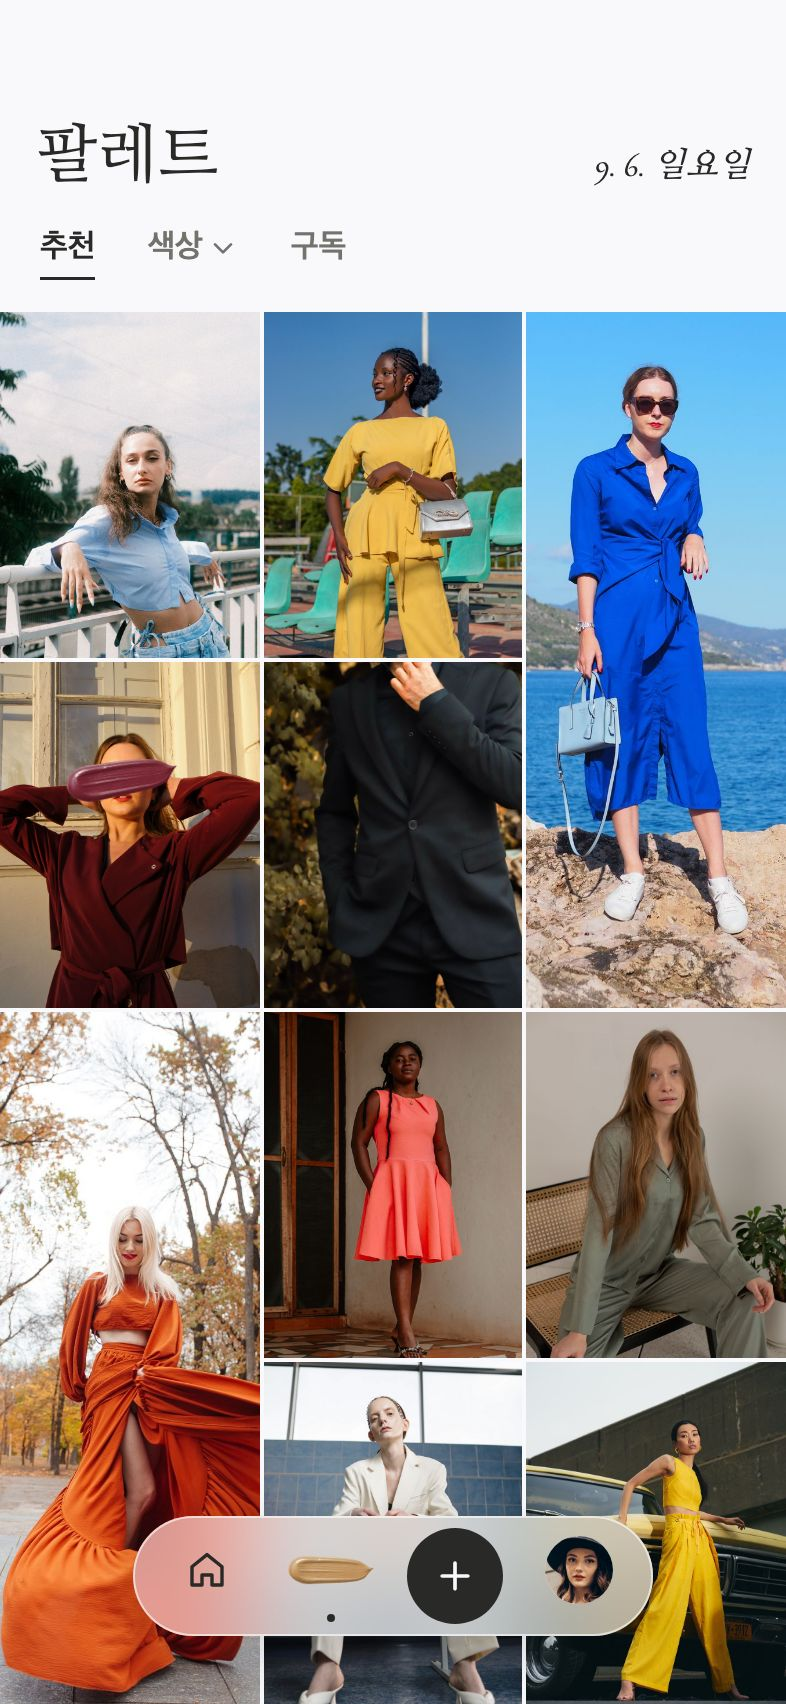
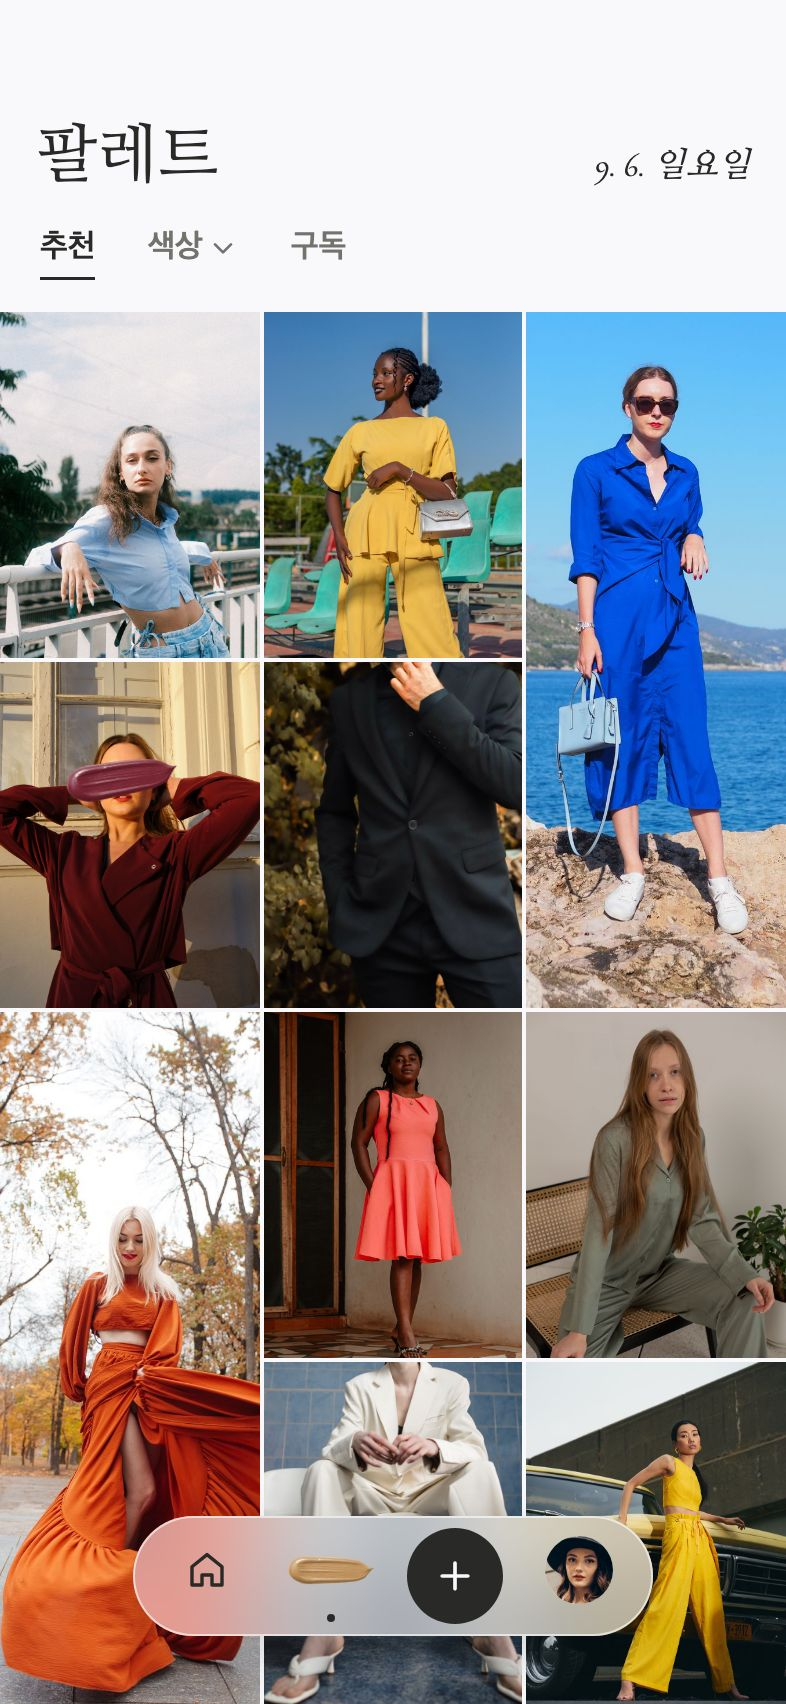
feat: 팔레트 추천을 스크롤로 더 보게 하고 홈의 전체·구독 탭을 뺌
추천 격자를 4묶음(20칸)으로 늘려 스크롤한다. 홈은 구독과 추천을
섞은 한 피드라 탭을 빼고, 구독만 보기는 팔레트의 구독 탭에 둔다.
'사인 뒤로'를 고른 사진은 작은 칸에서 사인이 얼굴을 가리지 못하므로
격자에서는 목 아래로 잘라 보여 준다(10-18 사용자 결정).

Changed region(s): [[0.3359, 0.7776, 0.6718, 1.0]]

diff --git a/.codex/temp/prototype/20261003-cover-sns/generator/project/CoverStand.dc.html b/.codex/temp/prototype/20261003-cover-sns/generator/project/CoverStand.dc.html
@@ -35,7 +35,8 @@ button:active,a:active{transform:scale(0.97)}
 <a href="CoverStandLocked.dc.html" style="height: 44px; padding: 0 4px; display: flex; flex-direction: column; align-items: center; justify-content: center; gap: 4px; font-size: 16px; font-weight: 600; color: #71736C"><span style="height: 22px; display: flex; align-items: center; gap: 2px">색상<svg width="16" height="16" viewBox="0 0 24 24" fill="none" stroke="currentColor" stroke-width="2" stroke-linecap="round" stroke-linejoin="round" aria-hidden="true"><path d="M6 10l6 6 6-6"></path></svg></span><span style="align-self: stretch; height: 1.5px; background: transparent"></span></a>
 <a href="CoverStand.dc.html" style="height: 44px; padding: 0 4px; display: flex; flex-direction: column; align-items: center; justify-content: center; gap: 4px; font-size: 16px; font-weight: 600; color: #71736C"><span style="height: 22px; display: flex; align-items: center; gap: 2px">구독</span><span style="align-self: stretch; height: 1.5px; background: transparent"></span></a>
 </nav>
-<section aria-label="추천" style="flex-shrink: 0; position: relative; height: 700px; margin-top: 8px">
+<div class="esel-scroll" style="flex: 1 1 0; min-height: 0; overflow-y: auto; overscroll-behavior: contain; scrollbar-width: none">
+<section aria-label="추천" style="position: relative; height: 1400px; margin-top: 8px">
 <a href="CoverShelf.dc.html" aria-label="dana의 스케치북" style="position: absolute; left: 0px; top: 0px; width: 130px; height: 173px; overflow: hidden; background: #EDEEEA"><span style="position: relative; display: block; width: 130px; height: 173px; overflow: hidden"><img src="/_blob/ccccff032247b980b249542cac99de46" alt="파우더 블루 셔츠와 데님 착장" style="display: block; width: 130px; height: 173px; object-fit: cover; object-position: 50% 30%"></span></a>
 <a href="CoverShelf.dc.html" aria-label="ama의 스케치북" style="position: absolute; left: 132px; top: 0px; width: 129px; height: 173px; overflow: hidden; background: #EDEEEA"><span style="position: relative; display: block; width: 129px; height: 173px; overflow: hidden"><img src="/_blob/a3b1f50ec885b82797b4dad1d6fb32f8" alt="노란 셋업과 은색 가방 착장" style="display: block; width: 129px; height: 173px; object-fit: cover; object-position: 50% 30%"></span></a>
 <a href="CoverShelf.dc.html" aria-label="riva의 스케치북" style="position: absolute; left: 263px; top: 0px; width: 130px; height: 348px; overflow: hidden; background: #EDEEEA"><span style="position: relative; display: block; width: 130px; height: 348px; overflow: hidden"><img src="/_blob/7bee9f1a7214e73bb5aa29dfce802597" alt="바닷가 바위 위 코발트 셔츠 원피스 착장" style="display: block; width: 130px; height: 348px; object-fit: cover; object-position: 52% 50%"></span></a>
@@ -44,9 +45,21 @@ button:active,a:active{transform:scale(0.97)}
 <a href="CoverShelf.dc.html" aria-label="vera의 스케치북" style="position: absolute; left: 0px; top: 350px; width: 130px; height: 348px; overflow: hidden; background: #EDEEEA"><span style="position: relative; display: block; width: 130px; height: 348px; overflow: hidden"><img src="/_blob/63ec474100e2afdff573023dfd73730c" alt="가을 공원의 주황 롱드레스 착장" style="display: block; width: 130px; height: 348px; object-fit: cover; object-position: 53% 50%"></span></a>
 <a href="CoverShelf.dc.html" aria-label="zuri의 스케치북" style="position: absolute; left: 132px; top: 350px; width: 129px; height: 173px; overflow: hidden; background: #EDEEEA"><span style="position: relative; display: block; width: 129px; height: 173px; overflow: hidden"><img src="/_blob/a3999eebd3499221f8ec78cf743f25b7" alt="코랄 원피스 착장" style="display: block; width: 129px; height: 173px; object-fit: cover; object-position: 50% 30%"></span></a>
 <a href="CoverShelf.dc.html" aria-label="elin의 스케치북" style="position: absolute; left: 263px; top: 350px; width: 130px; height: 173px; overflow: hidden; background: #EDEEEA"><span style="position: relative; display: block; width: 130px; height: 173px; overflow: hidden"><img src="/_blob/9cfabfeec4c23b2ece0dbf8f87ac8a11" alt="세이지색 셋업을 입고 라탄 의자에 앉은 착장" style="display: block; width: 130px; height: 173px; object-fit: cover; object-position: 50% 20%"></span></a>
-<a href="CoverShelf.dc.html" aria-label="freya의 스케치북" style="position: absolute; left: 132px; top: 525px; width: 129px; height: 173px; overflow: hidden; background: #EDEEEA"><span style="position: relative; display: block; width: 129px; height: 173px; overflow: hidden"><img src="/_blob/d59cedab1c3a96ed7cf32ca456e541f8" alt="파란 타일 스튜디오의 크림 수트 착장" style="display: block; width: 129px; height: 173px; object-fit: cover; object-position: 50% 30%"></span></a>
+<a href="CoverShelf.dc.html" aria-label="freya의 스케치북" style="position: absolute; left: 132px; top: 525px; width: 129px; height: 173px; overflow: hidden; background: #EDEEEA"><span style="position: relative; display: block; width: 129px; height: 173px; overflow: hidden; background: #EDEEEA"><img src="/_blob/d59cedab1c3a96ed7cf32ca456e541f8" alt="파란 타일 스튜디오의 크림 수트 착장, 얼굴 아래로 자른 구도" style="position: absolute; left: -9px; top: -62px; width: 158px; height: 237px; max-width: none"></span></a>
 <a href="CoverShelf.dc.html" aria-label="hana의 스케치북" style="position: absolute; left: 263px; top: 525px; width: 130px; height: 173px; overflow: hidden; background: #EDEEEA"><span style="position: relative; display: block; width: 130px; height: 173px; overflow: hidden"><img src="/_blob/16b1eeb8d5be0dba464bad2254d08550" alt="노란 와이드 셋업을 입고 노란 클래식카에 기댄 착장" style="display: block; width: 130px; height: 173px; object-fit: cover; object-position: 100% 35%"></span></a>
+<a href="CoverShelf.dc.html" aria-label="sol의 스케치북" style="position: absolute; left: 0px; top: 700px; width: 130px; height: 173px; overflow: hidden; background: #EDEEEA"><span style="position: relative; display: block; width: 130px; height: 173px; overflow: hidden"><img src="/_blob/200ffdfc3dc90562fa53863c048124d3" alt="하늘색 셋업을 입고 스튜디오 의자에 앉은 착장" style="display: block; width: 130px; height: 173px; object-fit: cover; object-position: 50% 35%"></span></a>
+<a href="CoverShelf.dc.html" aria-label="nia의 스케치북" style="position: absolute; left: 132px; top: 700px; width: 129px; height: 173px; overflow: hidden; background: #EDEEEA"><span style="position: relative; display: block; width: 129px; height: 173px; overflow: hidden"><img src="/_blob/be2062f0f8bb9e61196b7a918177e0f2" alt="테라코타 줄무늬 셔츠와 반바지 착장" style="display: block; width: 129px; height: 173px; object-fit: cover; object-position: 50% 40%"></span></a>
+<a href="CoverShelf.dc.html" aria-label="june의 스케치북" style="position: absolute; left: 263px; top: 700px; width: 130px; height: 348px; overflow: hidden; background: #EDEEEA"><span style="position: relative; display: block; width: 130px; height: 348px; overflow: hidden; background: #EDEEEA"><img src="/_blob/a083104662de6b00bdffc25d95935c8f" alt="검정 수트와 흰 셔츠 착장, 얼굴 아래로 자른 구도" style="position: absolute; left: -49px; top: -113px; width: 370px; height: 463px; max-width: none"></span></a>
+<a href="CoverShelf.dc.html" aria-label="cleo의 스케치북" style="position: absolute; left: 0px; top: 875px; width: 130px; height: 173px; overflow: hidden; background: #EDEEEA"><span style="position: relative; display: block; width: 130px; height: 173px; overflow: hidden"><img src="/_blob/0e9dfede87240970a60a9d4d7b348202" alt="버건디 수트와 데님 톱 착장" style="display: block; width: 130px; height: 173px; object-fit: cover; object-position: 50% 25%"></span></a>
+<a href="CoverShelf.dc.html" aria-label="maya의 스케치북" style="position: absolute; left: 132px; top: 875px; width: 129px; height: 173px; overflow: hidden; background: #EDEEEA"><span style="position: relative; display: block; width: 129px; height: 173px; overflow: hidden"><img src="/_blob/8ad47ab1dabd84a10ead2ddeb7eefb86" alt="흰 벽에 기댄 크림 셔츠와 바지 착장" style="display: block; width: 129px; height: 173px; object-fit: cover; object-position: 50% 35%"></span></a>
+<a href="CoverShelf.dc.html" aria-label="ines의 스케치북" style="position: absolute; left: 0px; top: 1050px; width: 130px; height: 348px; overflow: hidden; background: #EDEEEA"><span style="position: relative; display: block; width: 130px; height: 348px; overflow: hidden"><img src="/_blob/0d4a6ba247b79548b298ec9fb0b0778c" alt="하늘색 블라우스와 흰 바지 착장" style="display: block; width: 130px; height: 348px; object-fit: cover; object-position: 65% 20%"><img src="/_blob/2741e570bc827c25a1b735a55cfb4f8e" alt="" style="position: absolute; left: 16px; top: 34px; width: 98px; height: 49px; max-width: none; transform: rotate(-10deg); pointer-events: none"></span></a>
+<a href="CoverShelf.dc.html" aria-label="rio의 스케치북" style="position: absolute; left: 132px; top: 1050px; width: 129px; height: 173px; overflow: hidden; background: #EDEEEA"><span style="position: relative; display: block; width: 129px; height: 173px; overflow: hidden"><img src="/_blob/b5ff21cbb74e080d3cd23771fe4a7d6a" alt="분홍 벽 앞 코랄 슬립 원피스 착장" style="display: block; width: 129px; height: 173px; object-fit: cover; object-position: 50% 40%"></span></a>
+<a href="CoverShelf.dc.html" aria-label="mira의 스케치북" style="position: absolute; left: 263px; top: 1050px; width: 130px; height: 173px; overflow: hidden; background: #EDEEEA"><span style="position: relative; display: block; width: 130px; height: 173px; overflow: hidden"><img src="/_blob/8a310513242c00b53e6f091e65dc00df" alt="연두빛 세이지 투피스 드레스 착장" style="display: block; width: 130px; height: 173px; object-fit: cover; object-position: 0% 25%"></span></a>
+<a href="CoverShelf.dc.html" aria-label="ayo의 스케치북" style="position: absolute; left: 132px; top: 1225px; width: 129px; height: 173px; overflow: hidden; background: #EDEEEA"><span style="position: relative; display: block; width: 129px; height: 173px; overflow: hidden"><img src="/_blob/f58f119167a567a8a92482ac18be333a" alt="금단추 코발트 원피스 착장" style="display: block; width: 129px; height: 173px; object-fit: cover; object-position: 50% 30%"></span></a>
+<a href="CoverShelf.dc.html" aria-label="elin의 스케치북" style="position: absolute; left: 263px; top: 1225px; width: 130px; height: 173px; overflow: hidden; background: #EDEEEA"><span style="position: relative; display: block; width: 130px; height: 173px; overflow: hidden; background: #EDEEEA"><img src="/_blob/9cfabfeec4c23b2ece0dbf8f87ac8a11" alt="세이지색 셋업을 입고 라탄 의자에 앉은 착장, 얼굴 아래로 자른 구도" style="position: absolute; left: -30px; top: -87px; width: 175px; height: 263px; max-width: none"></span></a>
 </section>
+<div style="height: 110px"></div>
+</div>
 <nav aria-label="주요 화면" class="esel-glass" style="position: absolute; left: 50%; bottom: 34px; width: 260px; height: 60px; margin-left: -130px; box-sizing: border-box; padding: 0 6px; border-radius: 30px; display: flex; align-items: center; justify-content: space-between; color: #292A27">
 <a href="CoverFeed.dc.html" aria-label="홈" style="position: relative; width: 62px; height: 48px; box-sizing: border-box; padding-bottom: 6px; display: flex; align-items: center; justify-content: center"><svg width="24" height="24" viewBox="0 0 24 24" fill="none" stroke="currentColor" stroke-width="1.7" stroke-linecap="round" stroke-linejoin="round" aria-hidden="true"><path d="M4.5 10.4L12 4.3l7.5 6.1V19.5h-5v-5h-5v5h-5z"></path></svg><span aria-hidden="true" style="position: absolute; left: 50%; bottom: 1px; width: 4px; height: 4px; margin-left: -2px; border-radius: 50%; background: transparent"></span></a>
 <a href="CoverStand.dc.html" aria-label="팔레트" aria-current="page" style="position: relative; width: 62px; height: 48px; box-sizing: border-box; padding-bottom: 6px; display: flex; align-items: center; justify-content: center"><img src="/_blob/b6075b3235f77454183c94c49f6da37a" alt="" style="width: 52px; height: 26px; flex-shrink: 0; object-fit: contain"><span aria-hidden="true" style="position: absolute; left: 50%; bottom: 1px; width: 4px; height: 4px; margin-left: -2px; border-radius: 50%; background: #292A27"></span></a>

diff --git a/.codex/temp/prototype/20261003-cover-sns/generator/project/CoverFeed.dc.html b/.codex/temp/prototype/20261003-cover-sns/generator/project/CoverFeed.dc.html
@@ -29,10 +29,7 @@ button:active,a:active{transform:scale(0.97)}
 <img src="/_blob/ccccff032247b980b249542cac99de46" alt="파우더 블루 셔츠와 데님 착장" style="display: block; width: 393px; height: 852px; object-fit: cover; object-position: 58% 50%; position: absolute; left: 0; top: 0">
 <div aria-hidden="true" style="position: absolute; left: 0; right: 0; bottom: 0; height: 480px; background: linear-gradient(rgba(0, 0, 0, 0), rgba(0, 0, 0, 0.72))"></div>
 <div style="position: absolute; left: 14px; right: 20px; top: 48px; height: 44px; display: flex; align-items: center; justify-content: space-between; color: #292A27; font-size: 13px; font-weight: 600; letter-spacing: 0.04em">
-<div style="display: flex">
-<button type="button" aria-pressed="true" style="height: 44px; padding: 0 6px; display: flex; flex-direction: column; align-items: center; justify-content: center; gap: 3px"><span>전체</span><span style="width: 100%; height: 1.5px; background: #292A27"></span></button>
-<button type="button" aria-pressed="false" style="height: 44px; padding: 0 6px; display: flex; flex-direction: column; align-items: center; justify-content: center; gap: 3px; opacity: 0.78"><span>구독</span><span style="width: 100%; height: 1.5px"></span></button>
-</div>
+<span></span>
 <span style="font-size: 12px">Nº 249 · 2026. 9. 6.</span>
 </div>
 <div aria-hidden="true" style="position: absolute; left: 0; right: 0; top: 80px; text-align: center; font-family: 'Esel Dot', 'Cormorant Garamond', 'Nanum Myeongjo', AppleMyungjo, Georgia, serif; font-size: 200px; line-height: 0.9; letter-spacing: -0.05em; padding-right: 10px; color: #292A27; white-space: nowrap">Esel</div>

diff --git a/.codex/temp/prototype/20261003-cover-sns/generator/project/CoverNext.dc.html b/.codex/temp/prototype/20261003-cover-sns/generator/project/CoverNext.dc.html
@@ -30,10 +30,7 @@ button:active,a:active{transform:scale(0.97)}
 <div aria-hidden="true" style="position: absolute; left: 0; right: 0; top: 0; height: 300px; background: linear-gradient(rgba(0, 0, 0, 0.4), rgba(0, 0, 0, 0))"></div>
 <div aria-hidden="true" style="position: absolute; left: 0; right: 0; bottom: 0; height: 480px; background: linear-gradient(rgba(0, 0, 0, 0), rgba(0, 0, 0, 0.72))"></div>
 <div style="position: absolute; left: 14px; right: 20px; top: 48px; height: 44px; display: flex; align-items: center; justify-content: space-between; color: #FFFFFF; font-size: 13px; font-weight: 600; letter-spacing: 0.04em">
-<div style="display: flex">
-<button type="button" aria-pressed="true" style="height: 44px; padding: 0 6px; display: flex; flex-direction: column; align-items: center; justify-content: center; gap: 3px"><span>전체</span><span style="width: 100%; height: 1.5px; background: #FFFFFF"></span></button>
-<button type="button" aria-pressed="false" style="height: 44px; padding: 0 6px; display: flex; flex-direction: column; align-items: center; justify-content: center; gap: 3px; opacity: 0.78"><span>구독</span><span style="width: 100%; height: 1.5px"></span></button>
-</div>
+<span></span>
 <span style="font-size: 12px">Nº 249 · 2026. 9. 6.</span>
 </div>
 <div aria-hidden="true" style="position: absolute; left: 0; right: 0; top: 80px; text-align: center; font-family: 'Esel Dot', 'Cormorant Garamond', 'Nanum Myeongjo', AppleMyungjo, Georgia, serif; font-size: 200px; line-height: 0.9; letter-spacing: -0.05em; padding-right: 10px; color: #FFFFFF; white-space: nowrap">Esel</div>

diff --git a/.codex/temp/prototype/20261003-cover-sns/generator/project/CoverScroll.dc.html b/.codex/temp/prototype/20261003-cover-sns/generator/project/CoverScroll.dc.html
@@ -31,10 +31,7 @@ button:active,a:active{transform:scale(0.97)}
 <img src="/_blob/ccccff032247b980b249542cac99de46" alt="파우더 블루 셔츠와 데님 착장" style="display: block; width: 393px; height: 800px; object-fit: cover; object-position: 58% 50%; position: absolute; left: 0; top: 0">
 <div aria-hidden="true" style="position: absolute; left: 0; right: 0; bottom: 0; height: 460px; background: linear-gradient(rgba(0, 0, 0, 0), rgba(0, 0, 0, 0.72))"></div>
 <div style="position: absolute; left: 14px; right: 20px; top: 48px; height: 44px; display: flex; align-items: center; justify-content: space-between; color: #292A27; font-size: 13px; font-weight: 600; letter-spacing: 0.04em">
-<div style="display: flex">
-<button type="button" aria-pressed="true" style="height: 44px; padding: 0 6px; display: flex; flex-direction: column; align-items: center; justify-content: center; gap: 3px"><span>전체</span><span style="width: 100%; height: 1.5px; background: #292A27"></span></button>
-<button type="button" aria-pressed="false" style="height: 44px; padding: 0 6px; display: flex; flex-direction: column; align-items: center; justify-content: center; gap: 3px; opacity: 0.78"><span>구독</span><span style="width: 100%; height: 1.5px"></span></button>
-</div>
+<span></span>
 <span style="font-size: 12px">Nº 249 · 2026. 9. 6.</span>
 </div>
 <h1 style="position: absolute; width: 1px; height: 1px; overflow: hidden; clip-path: inset(50%); margin: 0">Esel 오늘의 표지</h1>
